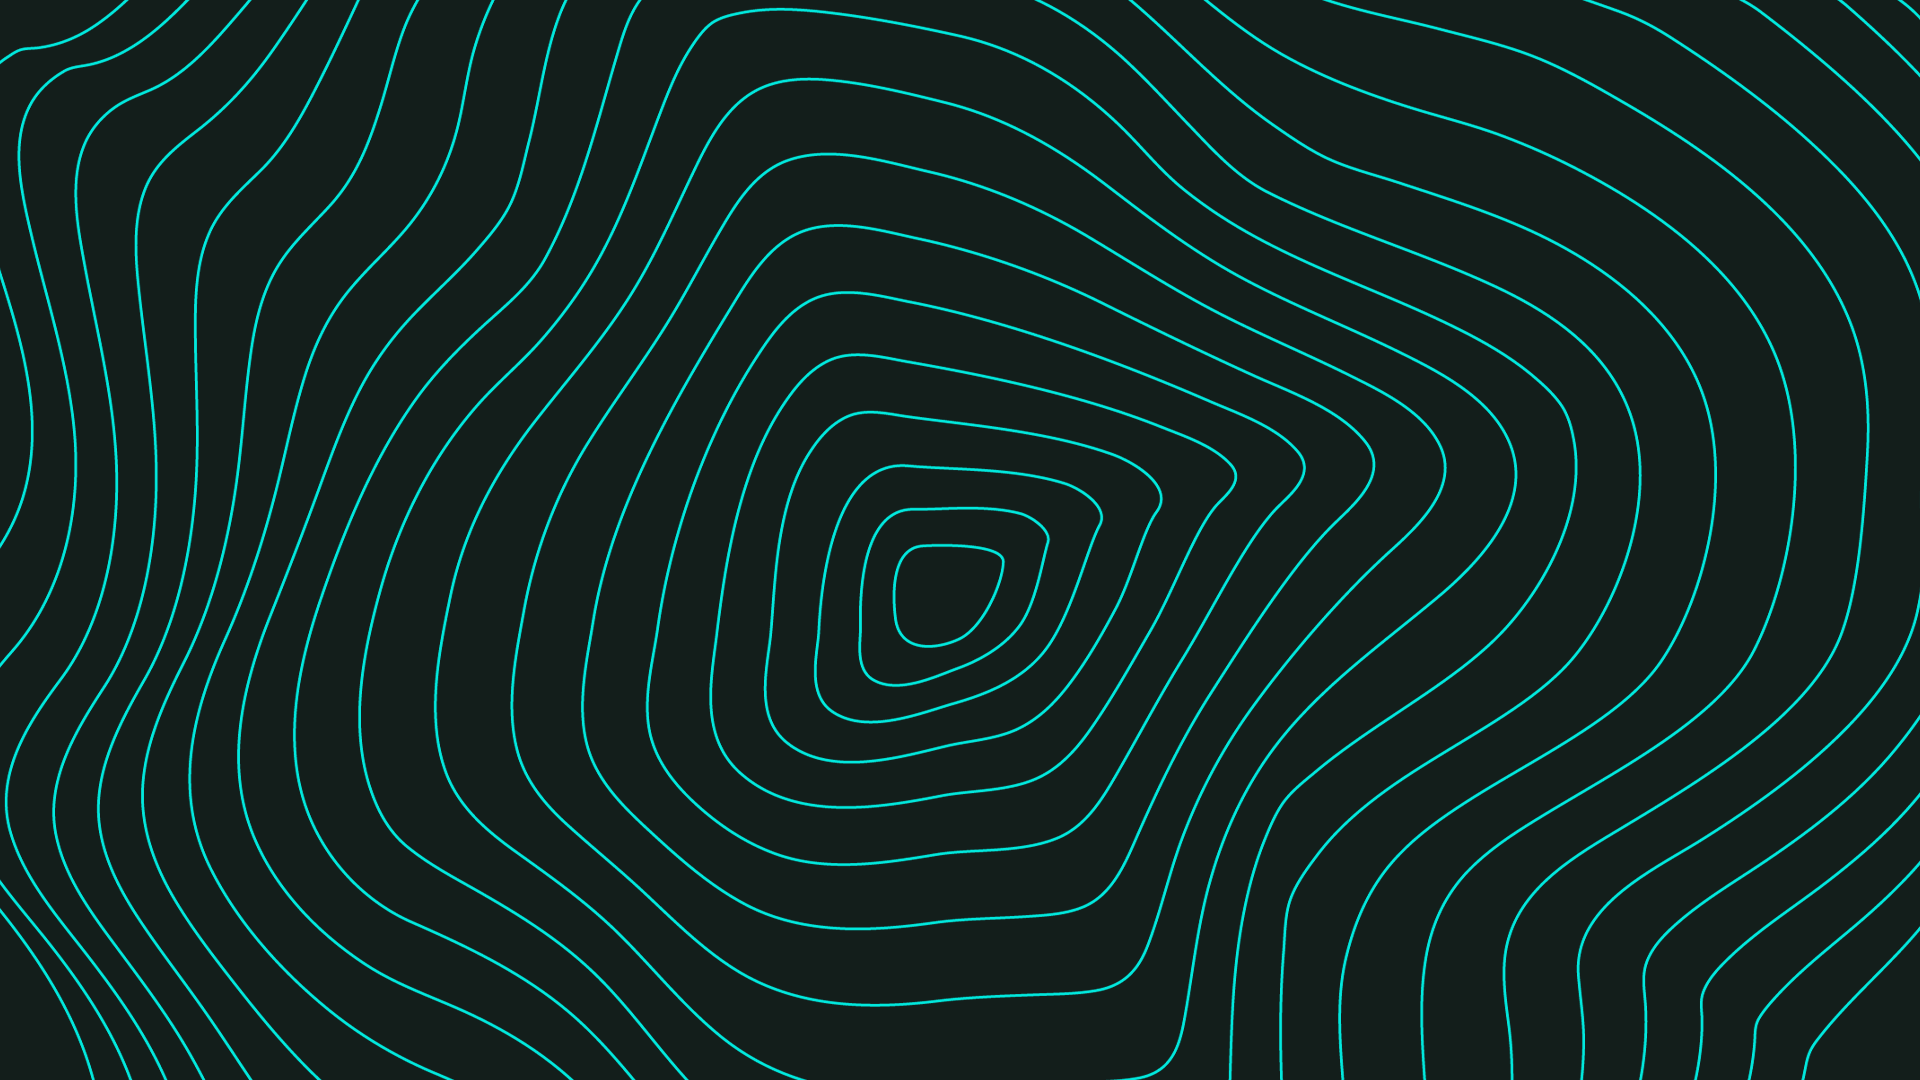
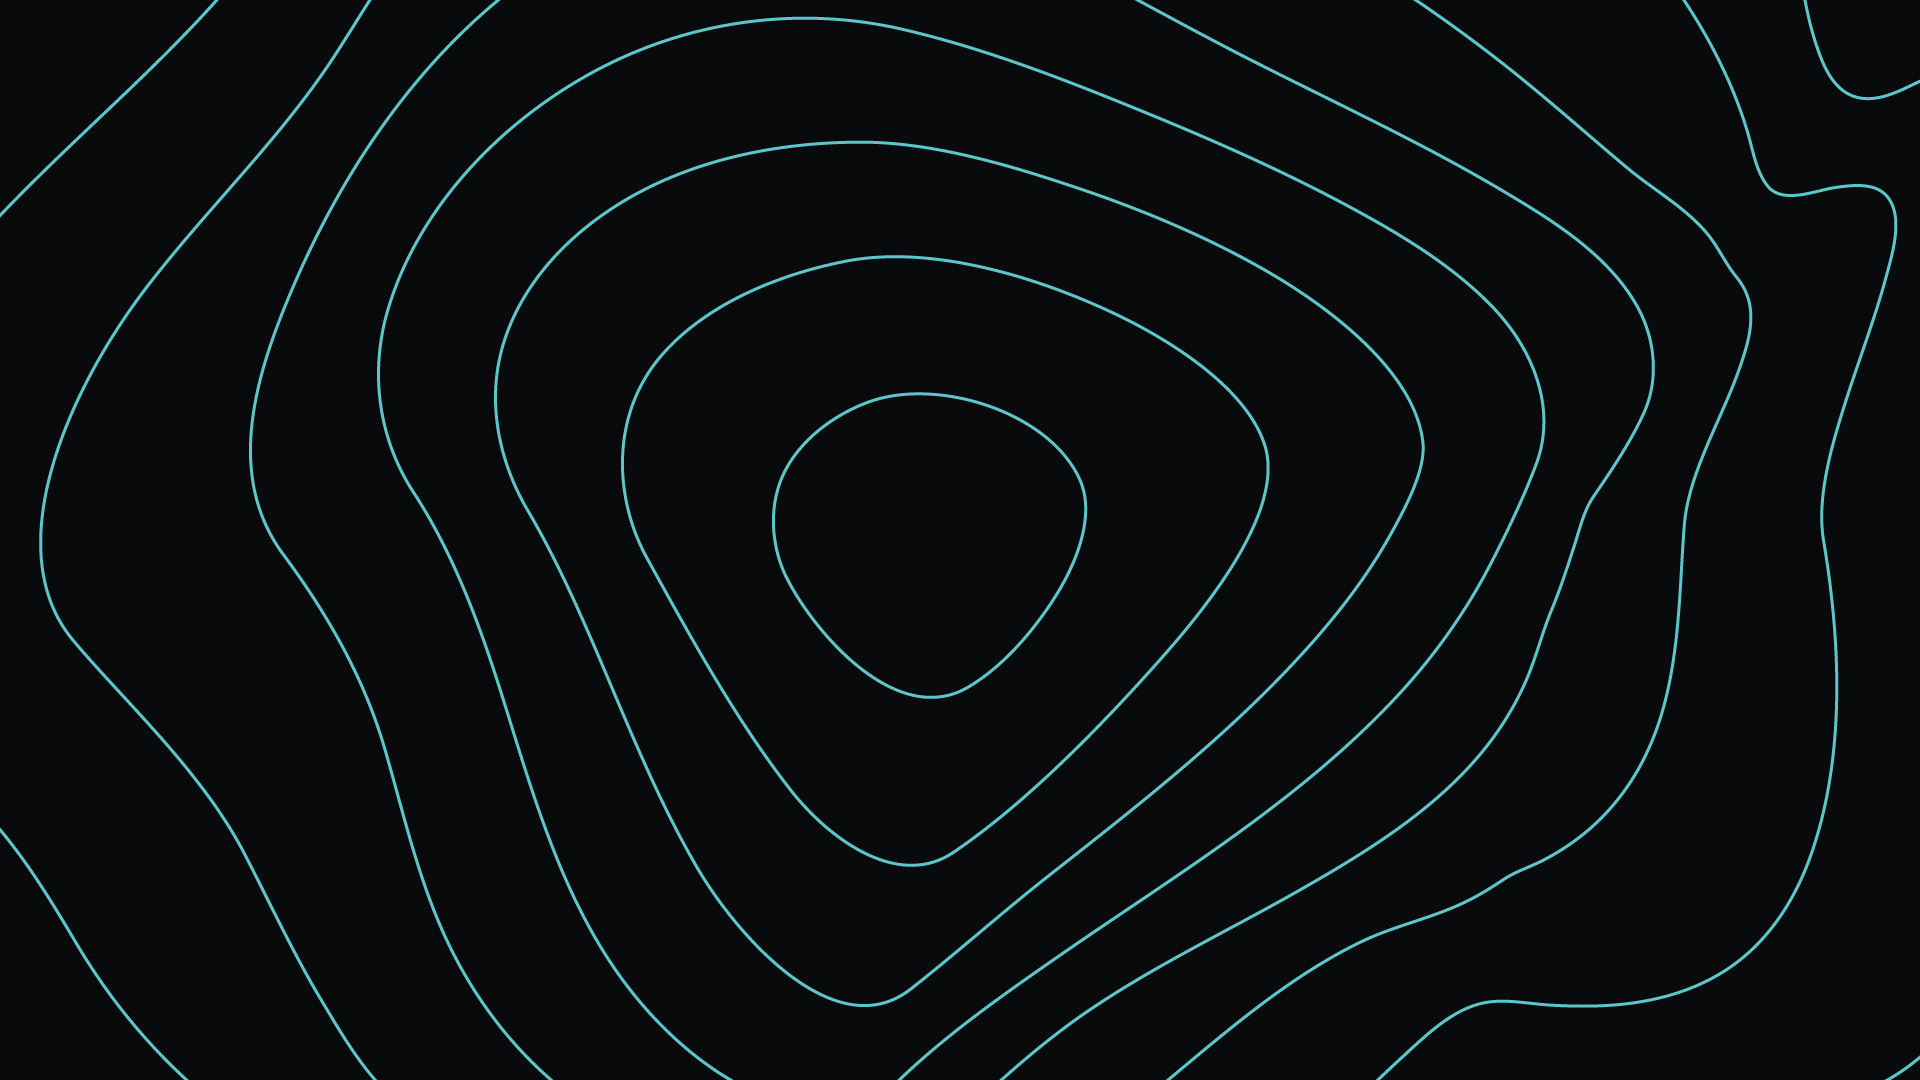
all file pushed

diff --git a/src/components/Contact.jsx b/src/components/Contact.jsx
@@ -105,28 +105,28 @@ const Contact = () => {
           <p className="text-[#a2afa2] mb-4 sm:mb-8">Or fill this form</p>
           <div className="py-3">
             <input
-              className="bg-transparent placeholder:text-white placeholder:text-xl px-2 outline-none text-white text-xl w-full border-b-[1px] border-[#f6fad04a] focus:border-[#fff] transition-all duration-300 pb-3 mb-3"
+              className="bg-transparent placeholder:text-white placeholder:text-xl px-2 outline-none text-white text-xl w-full border-b-[1px] border-[#01e9de4a] focus:border-[#fff] transition-all duration-300 pb-3 mb-3"
               type="text"
               placeholder="Name"
             />
           </div>
           <div className="py-3">
             <input
-              className="bg-transparent placeholder:text-white placeholder:text-xl px-2 outline-none text-white text-xl w-full border-b-[1px] border-[#f6fad04a] focus:border-[#fff] transition-all duration-300 pb-3 mb-3"
+              className="bg-transparent placeholder:text-white placeholder:text-xl px-2 outline-none text-white text-xl w-full border-b-[1px] border-[#01e9de4a] focus:border-[#fff] transition-all duration-300 pb-3 mb-3"
               type="email"
               placeholder="Email"
             />
           </div>
           <div className="py-3">
             <input
-              className="bg-transparent placeholder:text-white placeholder:text-xl px-2 outline-none text-white text-xl w-full border-b-[1px] border-[#f6fad04a] focus:border-[#fff] transition-all duration-300 pb-3 mb-3"
+              className="bg-transparent placeholder:text-white placeholder:text-xl px-2 outline-none text-white text-xl w-full border-b-[1px] border-[#01e9de4a] focus:border-[#fff] transition-all duration-300 pb-3 mb-3"
               type="text"
               placeholder="Company"
             />
           </div>
           <div className="py-3">
             <textarea
-              className="bg-transparent placeholder:text-white placeholder:text-xl px-2 outline-none text-white text-xl resize-none w-full h-20 overflow-hidden border-b-[1px] border-[#f6fad04a] focus:border-[#fff] transition-all duration-300 pb-3 mb-3"
+              className="bg-transparent placeholder:text-white placeholder:text-xl px-2 outline-none text-white text-xl resize-none w-full h-20 overflow-hidden border-b-[1px] border-[#01e9de4a] focus:border-[#fff] transition-all duration-300 pb-3 mb-3"
               type="text"
               placeholder="Message"
             />
@@ -136,7 +136,7 @@ const Contact = () => {
           </button>
         </div>
       </div>
-      <div className="md:mt-10 mb-5 h-[0.1px] bg-[#e5ff0032]" />
+      <div className="md:mt-10 mb-5 h-[0.1px] bg-[#01e9de32]" />
       <div className="text-white py-10">
         <div className="overflow-hidden relative w-auto">
           <div

diff --git a/src/components/Footer.jsx b/src/components/Footer.jsx
@@ -9,7 +9,7 @@ const Footer = () => {
       </div>
       <div>
         <ul className=" flex flex-col sm:flex-row sm:gap-x-4 md:gap-x-6 gap-y-2 text-sm text-white">
-          <li className="hover:text-[#e6ff00] transition-all duration-500">
+          <li className="hover:text-[#01e9de] transition-all duration-500">
             <a
               rel="noreferrer"
               href="https://weirdweeb64.artstation.com/"
@@ -18,7 +18,7 @@ const Footer = () => {
               Artstation
             </a>
           </li>
-          <li className="hover:text-[#e6ff00] transition-all duration-500">
+          <li className="hover:text-[#01e9de] transition-all duration-500">
             <a
               rel="noreferrer"
               href="https://www.linkedin.com/in/rohit-patra-8b035b203/"
@@ -27,7 +27,7 @@ const Footer = () => {
               LinkedIn
             </a>
           </li>
-          <li className="hover:text-[#e6ff00] transition-all duration-500">
+          <li className="hover:text-[#01e9de] transition-all duration-500">
             <a
               rel="noreferrer"
               href="https://twitter.com/ItsAMeMari00"

diff --git a/src/App.jsx b/src/App.jsx
@@ -18,7 +18,7 @@ function App() {
       <Navigation />
       <div
         style={{ borderRadius: "16px 16px 0 0" }}
-        className="bg-[#0F0F0Fcf] w-full backdrop-blur-[10px] py-6 sm:py-10 px-3 sm:px-5 md:p-12"
+        className="bg-[#0f0f0f90] w-full backdrop-blur-[20px] py-6 sm:py-10 px-3 sm:px-5 md:p-12"
       >
         <Hero />
         <Services />

diff --git a/src/App.css b/src/App.css
@@ -21,6 +21,9 @@ html {
 .mainBg::before {
   content: "";
   background: url("/public/img/mainBg.png") center center/cover no-repeat;
+  scale: 1.5;
+  translate: 0 150px;
+  filter: blur(3px);
   /* background-color: #373737; */
   position: fixed;
   width: 100%;
